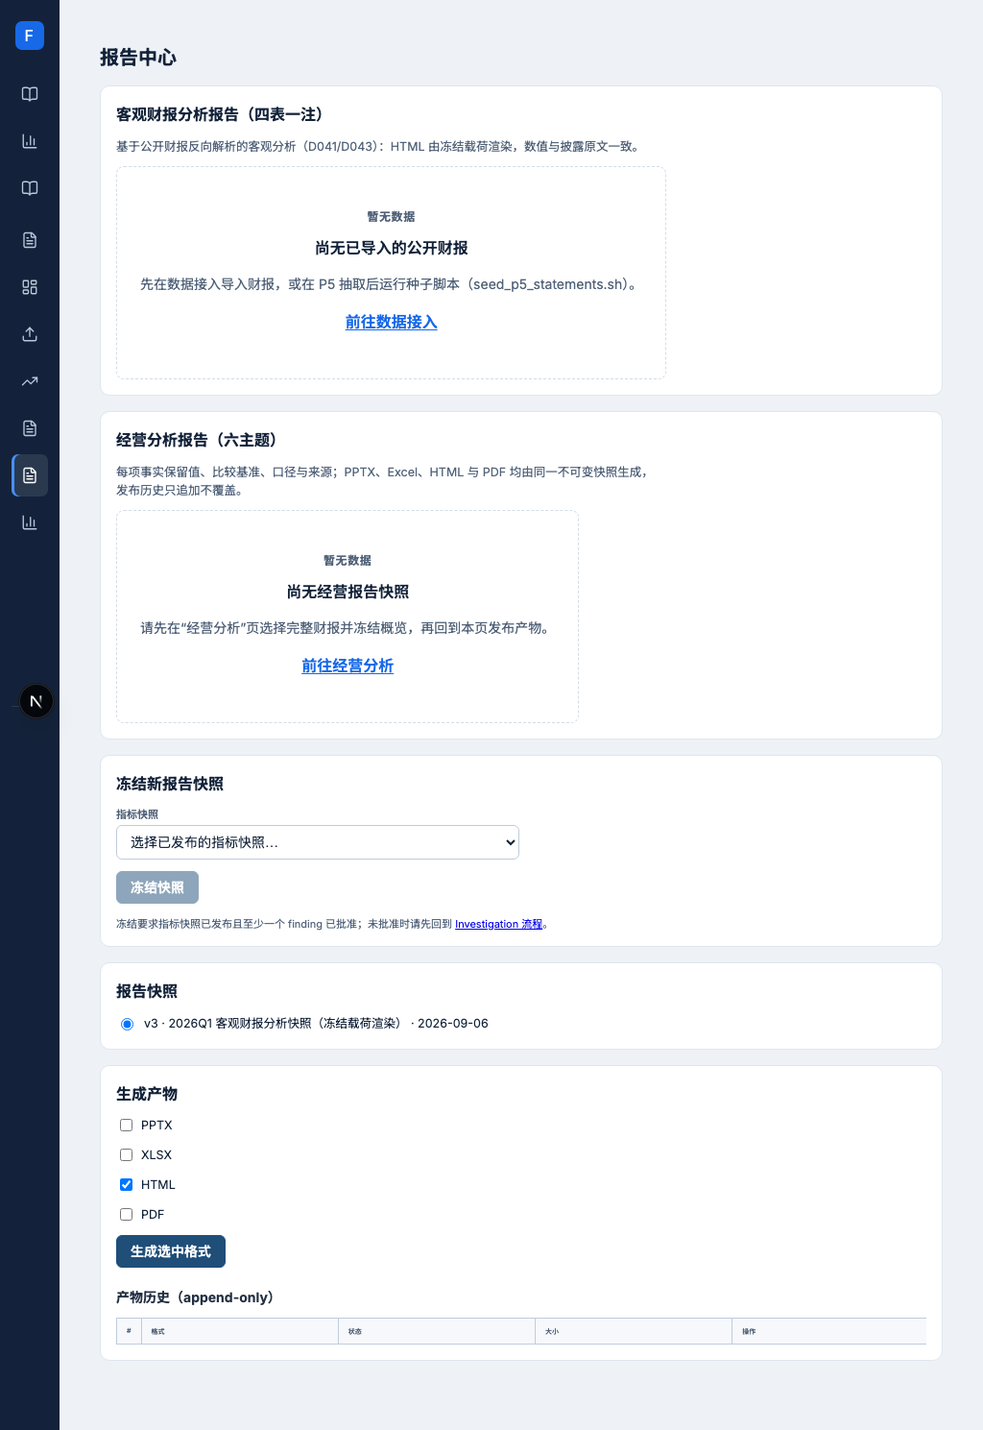
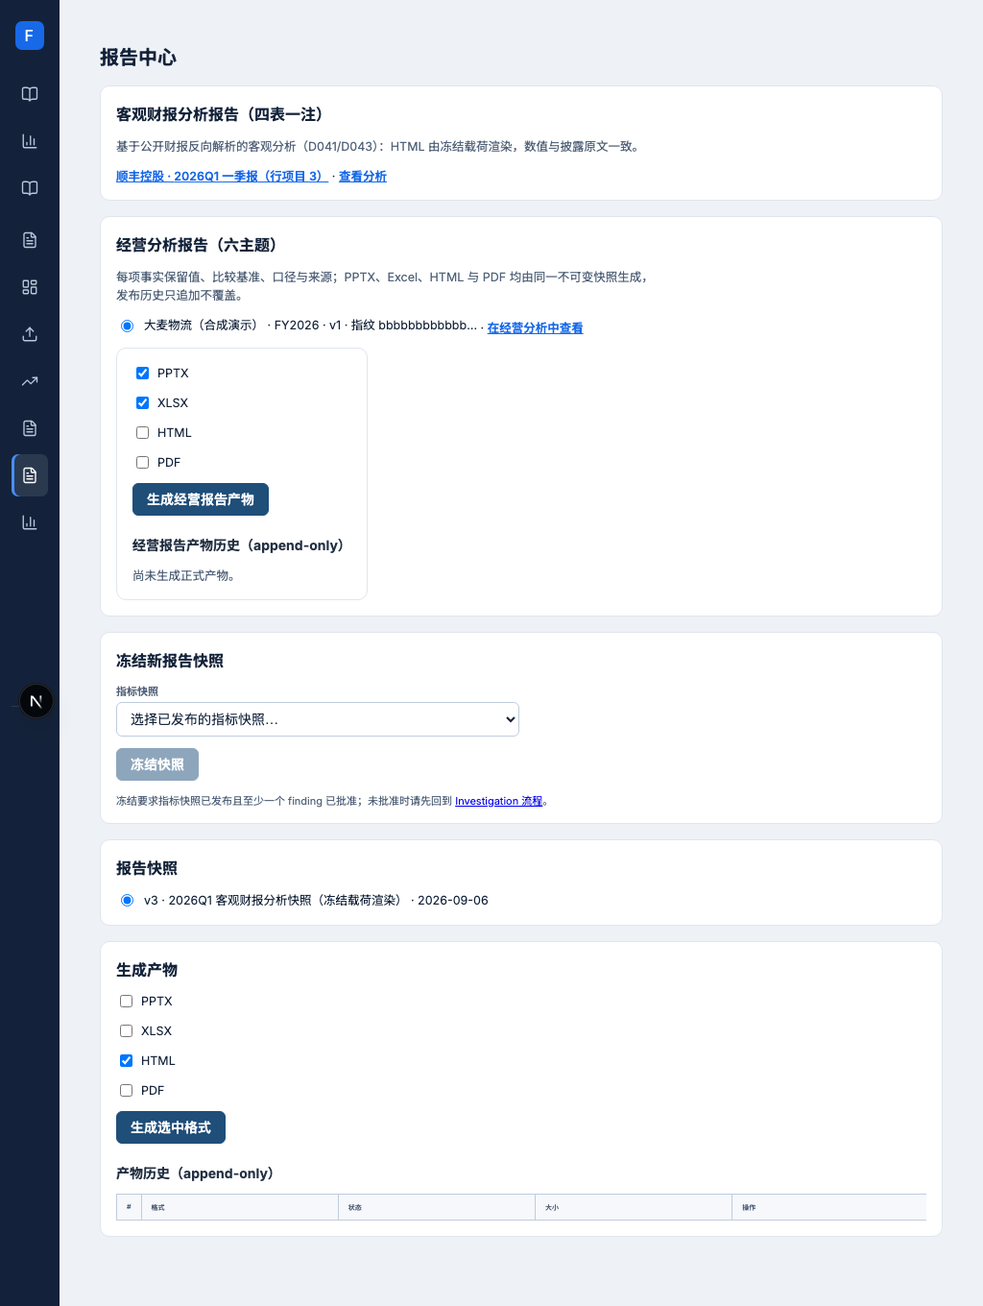
test(web): correct loaded state fixtures

diff --git a/apps/web/e2e/frontend-responsive.spec.ts b/apps/web/e2e/frontend-responsive.spec.ts
@@ -22,6 +22,8 @@ const ROUTES = [
   "/login",
 ] as const;
 
+const PAGE_ERRORS = new WeakMap<object, string[]>();
+
 // ---------------------------------------------------------------------------
 // 真实数据态的固定测试数据（路由拦截，形状对齐 typed schema 的 UI 读取面）
 // ---------------------------------------------------------------------------
@@ -57,50 +59,78 @@ const STATEMENTS_DETAIL = {
 };
 
 const METRIC_LIBRARY = {
-  dictionary_id: "flow.metrics.dictionary.v1.1",
-  status: "active",
+  dictionary_id: "flow.metric_dictionary.v1",
+  status: "effective",
   decision_ref: "D0xx",
+  created: "2026-09-27",
+  standards_scope: ["CAS", "IFRS"],
+  domains: { solvency: "偿债能力" },
   metrics: [
     {
-      code: "liquidity.current_ratio",
+      metric_code: "liquidity.current_ratio",
       name: "流动比率",
+      domain: "solvency",
+      tier: "core",
+      status: "effective",
       collection: "general",
       definition: "流动资产对流动负债的保障程度，衡量短期偿债能力。",
       formula_text: "流动资产 ÷ 流动负债（倍）",
-      time_behavior: "point_in_time",
+      formula: { op: "div", args: ["bs.current_assets", "bs.current_liabilities"] },
+      time_behavior: "point_balance",
+      unit: "倍",
       depends_on: ["cas.current_assets_total", "cas.current_liabilities_total"],
       provenance: "教科书标准口径",
-      mpm: null,
+      source_cas: ["流动资产合计", "流动负债合计"],
+      source_ifrs: "current assets / current liabilities",
+      mpm: false,
+      aliases: [],
+      alternative_calibers: [],
+      decompositions: [],
+      analysis_dimensions: [],
       entry_id: "e1",
-      migrates_from: null,
-      execution_kind: "deterministic",
-      execution_detail: null,
+      execution_kind: "facts",
     },
     {
-      code: "logistics.unit_cost",
-      name: "单票成本",
+      metric_code: "logistics.unit_cost",
+      name: "单票履约成本",
+      domain: "unit_economics",
+      tier: "professional",
+      status: "effective",
       collection: "logistics",
-      definition: "剔除存货后的更严格短期偿债口径的对照占位。",
-      formula_text: "（流动资产 − 存货）÷ 流动负债（倍）",
-      time_behavior: "point_in_time",
+      definition: "单位履约订单对应的平均履约成本。",
+      formula_text: "履约成本 ÷ 完成订单量",
+      formula: { op: "div", args: ["fulfillment_cost", "fulfilled_orders"] },
+      time_behavior: "period_flow",
+      unit: "元/单",
       depends_on: [],
-      provenance: null,
-      mpm: { benchmark: "trend" },
+      provenance: "大麦演示指标定义",
+      source_cas: [],
+      source_ifrs: null,
+      mpm: false,
+      aliases: [],
+      alternative_calibers: [],
+      decompositions: [],
+      analysis_dimensions: ["物流产品", "组织"],
       entry_id: "e2",
-      migrates_from: null,
-      execution_kind: "deterministic",
-      execution_detail: null,
+      execution_kind: "facts",
     },
   ],
   report_items: [
     { cas_item: "流动资产合计", ifrs_item: "Current assets", direction: "same" },
     { cas_item: "流动负债合计", ifrs_item: "Current liabilities", direction: "same" },
   ],
+  relations: [],
   accounting: {
+    dataset_id: "flow.accounting_foundation.v1",
+    status: "effective",
+    known_gaps: [],
+    categories: [],
     accounts: [
       { code: "1001", name: "库存现金" },
       { code: "1002", name: "银行存款" },
     ],
+    superseded_notes: [],
+    standards: [],
     entry_templates: [{ name: "收入确认模板", lines: 2 }],
   },
 };
@@ -142,6 +172,9 @@ const PUBLISHING_SNAPSHOTS = {
 /** 注入数据态；未列出的 API 保持透传（CI 无 API 时这些请求失败，
  *  但被测页面只依赖此处注入的端点）。 */
 async function mockRealisticData(page: import("@playwright/test").Page) {
+  const pageErrors: string[] = [];
+  page.on("pageerror", (error) => pageErrors.push(error.message));
+  PAGE_ERRORS.set(page, pageErrors);
   await page.route("**/api/v1/statements", (route) =>
     route.fulfill({ json: { reports: [STATEMENTS_SUMMARY] } }));
   await page.route(`**/api/v1/statements/${REPORT_ID}`, (route) =>
@@ -152,6 +185,10 @@ async function mockRealisticData(page: import("@playwright/test").Page) {
     route.fulfill({ json: FINDINGS }));
   await page.route("**/api/v1/publishing/snapshots", (route) =>
     route.fulfill({ json: PUBLISHING_SNAPSHOTS }));
+}
+
+async function expectNoPageErrors(page: import("@playwright/test").Page) {
+  expect(PAGE_ERRORS.get(page) ?? []).toEqual([]);
 }
 
 test.describe("responsive integrity", () => {
@@ -208,8 +245,9 @@ test.describe("responsive integrity", () => {
           await mockRealisticData(page);
           await page.goto(route, { waitUntil: "networkidle" });
           await waitForStyles(page);
-          await page.waitForTimeout(500);
-          await measureOverflow(page, `${route}@${width}`);
+        await page.waitForTimeout(500);
+        await measureOverflow(page, `${route}@${width}`);
+          await expectNoPageErrors(page);
         });
       }
     });
@@ -226,6 +264,7 @@ test.describe("responsive integrity", () => {
         await waitForStyles(page);
         await page.waitForTimeout(500);
         await measureOverflow(page, `${route} (data)`);
+        await expectNoPageErrors(page);
       });
     }
   });

diff --git a/apps/web/e2e/state-matrix-archive.spec.ts b/apps/web/e2e/state-matrix-archive.spec.ts
@@ -120,9 +120,63 @@ const PUBLISHING_SNAPSHOTS = {
   ],
 };
 
+const FREEZE_CANDIDATES = {
+  candidates: [
+    {
+      metric_snapshot_id: "ms-1",
+      batch_id: "damai-demo-v1",
+      period_label: "2026-08",
+      version: 3,
+      approved_findings: 1,
+      created_at: "2026-09-06T08:00:00+00:00",
+    },
+  ],
+};
+
+const OPERATIONS_SNAPSHOTS = {
+  snapshots: [
+    {
+      id: "os-1",
+      statement_report_id: REPORT_ID,
+      version: 1,
+      company_name: "大麦物流（合成演示）",
+      stock_code: "DAMAI.SYN",
+      period_label: "FY2026",
+      payload_hash: "b".repeat(64),
+      created_at: "2026-09-06T08:00:00+00:00",
+    },
+  ],
+};
+
 const DATA_ROUTES = [
-  { slug: "statements", route: "/statements", loaded: { statements: { reports: [STATEMENTS_SUMMARY] }, detail: STATEMENTS_DETAIL }, empty: { statements: { reports: [] } } },
-  { slug: "reports", route: "/reports", loaded: { publishing: PUBLISHING_SNAPSHOTS }, empty: { publishing: { snapshots: [] } } },
+  {
+    slug: "statements",
+    route: "/statements",
+    loaded: {
+      statements: { reports: [STATEMENTS_SUMMARY] },
+      detail: STATEMENTS_DETAIL,
+      corrections: { corrections: [] },
+    },
+    empty: { statements: { reports: [] } },
+  },
+  {
+    slug: "reports",
+    route: "/reports",
+    loaded: {
+      statements: { reports: [STATEMENTS_SUMMARY] },
+      publishing: PUBLISHING_SNAPSHOTS,
+      candidates: FREEZE_CANDIDATES,
+      operations: OPERATIONS_SNAPSHOTS,
+      publishingAttempts: { attempts: [] },
+      operationsAttempts: { attempts: [] },
+    },
+    empty: {
+      statements: { reports: [] },
+      publishing: { snapshots: [] },
+      candidates: { candidates: [] },
+      operations: { snapshots: [] },
+    },
+  },
   { slug: "metric-library", route: "/metric-library", loaded: { library: METRIC_LIBRARY }, empty: { library: { ...METRIC_LIBRARY, metrics: [] } } },
   { slug: "investigations", route: "/investigations", loaded: { investigations: FINDINGS }, empty: { investigations: { findings: [] } } },
 ] as const;
@@ -136,8 +190,33 @@ function applyFixtures(page: import("@playwright/test").Page, fixtures: Json) {
   if (fixtures.detail) {
     void page.route(`**/api/v1/statements/${REPORT_ID}`, (r) => r.fulfill({ json: fixtures.detail }));
   }
+  if (fixtures.corrections) {
+    void page.route(`**/api/v1/statements/${REPORT_ID}/corrections`, (r) =>
+      r.fulfill({ json: fixtures.corrections }),
+    );
+  }
   if (fixtures.publishing) {
     void page.route("**/api/v1/publishing/snapshots", (r) => r.fulfill({ json: fixtures.publishing }));
+  }
+  if (fixtures.candidates) {
+    void page.route("**/api/v1/publishing/freeze-candidates", (r) =>
+      r.fulfill({ json: fixtures.candidates }),
+    );
+  }
+  if (fixtures.operations) {
+    void page.route("**/api/v1/operations/snapshots", (r) =>
+      r.fulfill({ json: fixtures.operations }),
+    );
+  }
+  if (fixtures.publishingAttempts) {
+    void page.route("**/api/v1/publishing/snapshots/ps-1/attempts", (r) =>
+      r.fulfill({ json: fixtures.publishingAttempts }),
+    );
+  }
+  if (fixtures.operationsAttempts) {
+    void page.route("**/api/v1/operations/snapshots/os-1/attempts", (r) =>
+      r.fulfill({ json: fixtures.operationsAttempts }),
+    );
   }
   if (fixtures.library) {
     void page.route("**/api/v1/metric-library", (r) => r.fulfill({ json: fixtures.library }));
@@ -260,6 +339,7 @@ test.describe("state matrix archive", () => {
       "> 由 `apps/web/e2e/state-matrix-archive.spec.ts` 按需生成",
       "（`FLOW_STATE_MATRIX_ARCHIVE=1 pnpm exec playwright test e2e/state-matrix-archive.spec.ts`）。",
       "覆盖数据密集四页 × {正常 / 空 / 加载 / 错误 / 403} × {390 / 1024 / 1440}；",
+      "截图中的 loaded/empty 数据来自固定 UI 契约夹具，不是常驻库或大麦完整数据覆盖证明。",
       "结构合同由 `frontend-states.spec.ts` 与 `frontend-responsive.spec.ts` 门禁自动化，本目录为人审证据。",
       "",
       "| 页面 | 截图目录 |",

diff --git a/docs/50_plans/CURRENT_ROADMAP.md b/docs/50_plans/CURRENT_ROADMAP.md
@@ -3,7 +3,7 @@ doc_id: FLOW-PLAN-CURRENT
 title: 当前路线图（唯一）
 doc_type: plan
 status: active
-version: 5.15
+version: 5.16
 created_at: 2026-09-12
 updated_at: 2026-09-27
 owner: FLOW
@@ -17,7 +17,7 @@ superseded_by: null
 
 # 当前路线图（唯一主线）
 
-> 2026-09-27 主线状态：ORG-LEDGER 已在 `main@2c7d6eb4` 完成提交与推送，同 SHA GitHub CI run `36270782272` 全部 17 jobs success；本地隔离旅程与全量门禁均通过。UX 执行项已完成四个数据密集页面五态×三视口归档（61/61，含无 pageerror 断言），但 API→事实对账、其余路由状态/视口和下钻尚未完结。唯一执行队列仍为已完成1项、执行中1项（UX全站验收）、排队8项、外部材料受限1项。常驻 `flow` 测试批次偏差未经用户授权不得处置。
+> 2026-09-27 主线状态：ORG-LEDGER 已在 `main@2c7d6eb4` 完成提交与推送，同 SHA GitHub CI run `36270782272` 全部 17 jobs success；本地隔离旅程与全量门禁均通过。UX 执行项已完成四个数据密集页面五态×三视口归档（61/61）与响应式实测（27/27；均检查数据态 pageerror），但 API→事实对账、其余路由状态/视口和下钻尚未完结。唯一执行队列仍为已完成1项、执行中1项（UX全站验收）、排队8项、外部材料受限1项。常驻 `flow` 测试批次偏差未经用户授权不得处置。
 
 > **本页是全仓唯一主线**：既维护状态真相，也维护执行队列。2026-09-25 用户裁决（2A）后不再存在第二份「唯一」文档：EXECUTION_TODO、整合总计划、统一完整实施计划与执行收敛计划均已归档为历史/参考，状态与任务只以本页和工作包为准。详细验收步骤在各工作包与参考规格。
 
@@ -51,7 +51,7 @@ superseded_by: null
 截至 2026-09-27：**11 项，已完成 1 项，实际执行中 1 项，排队 8 项，外部材料受限 1 项**。第1项 ORG-LEDGER 已提交推送且同 SHA CI 全绿。当前唯一执行项为第2项 UX 全站验收；下一步先按工作包建立路由/API/页面状态/视口覆盖矩阵，只补测未覆盖的内容。全程禁止写入或清理常驻 `flow`。状态表、工作包和 HANDOFF 的操作卡不是第二条队列。
 
 1. **[完成] 企业组织建制与经营账套初始化包**（工作包见状态表2c）：提交 `2c7d6eb4`，CI run `36270782272` 的17/17 jobs success。31文件发行包稳定 manifest SHA `cbc7cccf…e513`；隔离 `full` 首次/重复、`business` 重置及回滚/租户隔离通过；全量 API852、Web142、脚本107、verify19/19、只读 GET43/43、Playwright9/9，合同/文档/lint/typecheck均通过。仅三表迁移在隔离栈验证，未触碰常驻库。
-2. **[进行中] UX 可见性与全站验收关闭**（工作包见状态表2b）：深链批次一至三已完成（批次三见 `cef0c362`）；2026-09-27 已刷新四个数据密集页五态×390/1024/1440 归档，Playwright 61/61 且无未捕获页面异常。接下来从已有43条只读 GET 覆盖表出发，完成剩余路由/API/页面数据一致性、未覆盖状态/视口、缺口与下钻验收，再运行 Gate 5 干净 SHA 全链和 CI；不可写入或清理常驻 `flow`，只补覆盖缺口，不重做深链批次。
+2. **[进行中] UX 可见性与全站验收关闭**（工作包见状态表2b）：深链批次一至三已完成（批次三见 `cef0c362`）；2026-09-27 已刷新四个数据密集页五态×390/1024/1440 归档，Playwright 61/61；响应式 E2E 27/27（11路由移动端、数据页多视口，含 pageerror 断言）。接下来从已有43条只读 GET 覆盖表出发，完成剩余路由/API/页面数据一致性、未覆盖状态/视口、缺口与下钻验收，再运行 Gate 5 干净 SHA 全链和 CI；不可写入或清理常驻 `flow`，只补覆盖缺口，不重做深链批次。
 3. **[排队] 公开财报 C 级归因、原件复核与抽取修订**（工作包见状态表3）：处理已确认42项异常后的109项口径疑点、JDL 200 格原件复核、抽取器修订；保留原始值及证据，任何结论可追溯。
 4. **[排队] U04 解析器适配与独立留出验证**（工作包见状态表1'）：这本身是可执行的工程任务，不再误标为阻塞。支持「合并及公司」标题与页码区间参数化；旧三样本回归；对已冻结的小米2026H1、阿里FY2027Q1独立首跑，首跑前不得调参。若遇到输入缺项，主动检查已冻结材料并完成可复现的替代核验记录。
 5. **[排队] C 级质量基准与 Go/No-Go**：依赖第3、4项；重跑 L1 并归档机器结果。`1794/1794` 仅表示登记覆盖，不代表准确性通过。

diff --git a/docs/00_start_here/PROJECT_STATE.md b/docs/00_start_here/PROJECT_STATE.md
@@ -3,7 +3,7 @@ doc_id: FLOW-STATE-001
 title: PROJECT_STATE
 doc_type: state
 status: current
-version: 5.12
+version: 5.13
 created_at: 2026-09-12
 updated_at: 2026-09-27
 owner: FLOW
@@ -12,7 +12,7 @@ applies_to: repository
 
 # FLOW 当前项目状态（唯一 current state）
 
-截至 2026-09-27：唯一队列共11项，已完成1项、实际执行中1项、排队8项、外部材料受限1项。ORG-LEDGER 已由 `2c7d6eb4` 推送到 `main`，同 SHA CI run `36270782272` 的17/17 jobs success；隔离初始化及全量验收通过，未触碰常驻数据库。当前唯一执行项为 UX 可见性与全站验收关闭；2026-09-27 已完成四个数据密集页五态×三视口截图复验（Playwright 61/61、无 pageerror），全路由 API/事实对账、状态视口、下钻及 Gate 5 仍待完成。完整11项顺序、逐步操作/验收/故障处理和唯一下一步见[当前路线图](../50_plans/CURRENT_ROADMAP.md#唯一完整-to-do-与执行队列严格串行)与[夜间接手手册](../../HANDOFF.md#04-夜间接手执行手册2026-09-27-当前权威)；此处不复制第二份待办。
+截至 2026-09-27：唯一队列共11项，已完成1项、实际执行中1项、排队8项、外部材料受限1项。ORG-LEDGER 已由 `2c7d6eb4` 推送到 `main`，同 SHA CI run `36270782272` 的17/17 jobs success；隔离初始化及全量验收通过，未触碰常驻数据库。当前唯一执行项为 UX 可见性与全站验收关闭；2026-09-27 已完成四个数据密集页五态×三视口归档（61/61）和响应式 E2E（27/27、无 pageerror），全路由 API/事实对账、未覆盖状态/视口、下钻及 Gate 5 仍待完成。完整11项顺序、逐步操作/验收/故障处理和唯一下一步见[当前路线图](../50_plans/CURRENT_ROADMAP.md#唯一完整-to-do-与执行队列严格串行)与[夜间接手手册](../../HANDOFF.md#04-夜间接手执行手册2026-09-27-当前权威)；此处不复制第二份待办。
 
 2026-09-26 更新：大麦常驻库曾在备份后幂等恢复并通过 verify 19/19 两次；随后根 checkout 的旧 `make test-dashboard` 误向常驻 `flow` 附加测试批次 `01a0dcdd-8245-7c17-99aa-fce91a8a7a57`（1 import、12 snapshots、1 run、50,400 metric values），可能成为 API `latest`。只读检查确认未删除/覆盖原大麦批次；未获授权，不回滚、不删除。此前备份 `work/backups/flow-pre-demo-rehydrate-20260926.dump`（SHA-256 `b374a16e…9782d`）早于该新增批次，不能作为当前恢复点。`649a2aba` 已推送并通过 CI run `36232029817`：维度表只展示当前快照事实并显示覆盖分母，完整筛选目录保留；Web 136/136、typecheck、隔离 verify19/19、E2E9/9通过。状态/证据文档提交 `7229cd0d` 与 `4c55f10e` 的 CI 也通过。常驻库页面状态需获批处置后重新只读核验；其他全站矩阵仍未完成。
 2026-09-26 补充：API 路由审查发现客观报表快照与经营报告渲染的若干 GET 可能新增冻结快照；这些路由已明确排除在只读探测之外，纳入单独 API 语义评审，不以请求验证其状态。其余 Gate 1 只读矩阵与页面状态验收继续推进。

diff --git a/docs/50_plans/work_items/UX--post-damai-experience-closeout.md b/docs/50_plans/work_items/UX--post-damai-experience-closeout.md
@@ -3,7 +3,7 @@ doc_id: FLOW-WI-UX-POST-DAMAI-001
 title: 大麦数据后的剩余体验收口
 doc_type: work-item
 status: active
-version: 4.7
+version: 4.8
 created_at: 2026-09-24
 updated_at: 2026-09-27
 owner: FLOW
@@ -37,7 +37,9 @@ applies_to: web-frontend
 
 - 共享 Next 开发进程的 `/statements` 请求挂起并出现 `EPIPE`，不属于本轮创建；未终止或改动该进程。改用 `work/damai-demo/web-matrix.E6MJjO/` 下的隔离前端副本及独立端口 54683 完成截图验收，复验后仅停止本轮创建的服务。
 - 四个数据密集页面 `/statements`、`/reports`、`/metric-library`、`/investigations` 的五态（loaded/empty/loading/error/forbidden）×三视口（390/1024/1440）共 60 张图已刷新；归档生成器第61项写索引。Playwright 两轮均 61/61；第二轮额外断言每个状态下无未捕获页面异常。
-- 首轮运行在旧指标库 fixture 中暴露 `MetricCard` 收到过时字段（`code` 而非 `metric_code`、缺 `domain` 等）导致浏览器运行时 TypeError。已将归档夹具修至当前 `flow.metric_dictionary.v1` UI 契约，并加入 pageerror 断言；第二轮归档无 pageerror。这个问题是测试夹具陈旧，并不表示生产 API 的指标数据缺陷。
+- 首轮运行在旧指标库 fixture 中暴露 `MetricCard` 收到过时字段（`code` 而非 `metric_code`、缺 `domain` 等）导致浏览器运行时 TypeError。已将归档夹具修至当前 `flow.metric_dictionary.v1` UI 契约，并加入 pageerror 断言；归档复验无 pageerror。这个问题是测试夹具陈旧，并不表示生产 API 的指标数据缺陷。
+- 代表性截图人审又发现报告中心 loaded fixture 未覆盖冻结候选、经营快照及对应尝试列表；首版因此把空占位错误地混入 loaded 图。已补齐这些端点的静态响应、将测试用的正式产物历史明确保持空列表，并重新生成归档；截图索引同步注明 loaded/empty 使用契约夹具，不能作为常驻库/大麦完整覆盖证明。
+- 响应式 E2E 的 `frontend-responsive.spec.ts` 另有一份相同的旧指标字段 fixture；现已按当前 `MetricEntry` 契约修正，并对四个 fixture 数据页检查 `pageerror`。独立隔离 Next 副本 Playwright 27/27（11路由390px无横向溢出；四个数据页1024/1440及数据态通过，无未捕获页面异常）。
 - 当前矩阵仍有明确范围差距：归档截图只覆盖四个数据密集页；其余七个交互路由仅有既有移动端溢出测试/局部状态合同，尚无五态×三视口全量视觉证据。截图中的单个财报/单指标 mock 是稳定的展示夹具，不是大麦数据库实况，也不能据此断言实际大麦数据的页面完整性。
 - 此复验只补充视觉归档与测试真实性，不覆盖 Gate 1 的逐项 API→发布对象→源事实映射，也未覆盖所有目标指标/趋势/矩阵下钻；工作包仍保持 active。
 

diff --git a/HANDOFF.md b/HANDOFF.md
@@ -20,7 +20,7 @@ applies_to: repository
 
 ### 接手基线、当前状态与操作纪律
 
-- 本轮从 GitHub `main` 快进同步到 `0aa2e880` 开始，在 `/Users/qiming/workspace/FLOW/.worktrees/execution-convergence` 的唯一 `main` 工作树串行执行。ORG-LEDGER 提交 `2c7d6eb4e9dead835a005687cdff8ac5ab19631f` 已推送，FLOW CI run `36270782272` 17/17 success。UX 已刷新四个数据密集页五态×三视口归档（60张截图；Playwright 两轮61/61，第二轮含无未捕获 pageerror 断言）。全站 API→事实对账、剩余路由/状态/视口/下钻与 Gate 5 仍未完成，队列计数不变。历史 `c08a2f6a` / `fc6e63a7` 仅作旧快照解释。未触碰根工作树的既有脏 `AGENTS.md` 和 `apps/web/next-env.d.ts`。
+- 本轮从 GitHub `main` 快进同步到 `0aa2e880` 开始，在 `/Users/qiming/workspace/FLOW/.worktrees/execution-convergence` 的唯一 `main` 工作树串行执行。ORG-LEDGER 提交 `2c7d6eb4e9dead835a005687cdff8ac5ab19631f` 已推送，FLOW CI run `36270782272` 17/17 success。UX 已刷新四个数据密集页五态×三视口归档（60张截图；加载归档61/61，响应式 E2E27/27；均覆盖 pageerror 检查）。报告中心 loaded fixture 现补齐列表端点但保留真实的“无正式产物”空历史；所有归档 loaded/empty 图均为固定 UI 夹具，不是大麦真实全量覆盖证据。全站 API→事实对账、剩余路由/状态/视口/下钻与 Gate 5 仍未完成，队列计数不变。历史 `c08a2f6a` / `fc6e63a7` 仅作旧快照解释。未触碰根工作树的既有脏 `AGENTS.md` 和 `apps/web/next-env.d.ts`。
 - **当前路线图计数（唯一队列11项）**：已完成 1（ORG-LEDGER）、实际执行中 1（UX 全站验收）、排队 8、外部材料受限 1。第1项因提交 SHA 同 CI 全绿而关闭，第2项已成为唯一执行项；不并行开启其他工作包。
 - 只在 `main` 上做，禁止新建并行任务分支；不得同时开始下一项。用户已授权常规项目实施与验证，不再为日常测试、分析、文档或常规实现请求再次批准。既有全局安全红线仍有效：真实数据迁移/schema、删除/覆盖/恢复常驻库、密钥/CI 配置、公开部署等按 `AGENTS.md` 处理；尤其常驻 `flow` 中的测试批次偏差 `01a0dcdd-8245-7c17-99aa-fce91a8a7a57` 不得自行删除、回滚或切 latest。
 - **状态口径**：`进行中`=此刻确实有命令、审查或实现正在执行；`队首待启动`=当前第一项但未开工；`排队`=严格等待前项完成；`外部材料受限`=先按本手册执行主动恢复和替代方案，不是停工态。工作包 frontmatter 的 `active/blocked` 表示工作包生命周期或验收门槛，不覆盖路线图执行状态。

diff --git a/docs/assets/screenshots/state-matrix/README.md b/docs/assets/screenshots/state-matrix/README.md
@@ -15,6 +15,7 @@ applies_to: docs
 > 由 `apps/web/e2e/state-matrix-archive.spec.ts` 按需生成
 （`FLOW_STATE_MATRIX_ARCHIVE=1 pnpm exec playwright test e2e/state-matrix-archive.spec.ts`）。
 覆盖数据密集四页 × {正常 / 空 / 加载 / 错误 / 403} × {390 / 1024 / 1440}；
+截图中的 loaded/empty 数据来自固定 UI 契约夹具，不是常驻库或大麦完整数据覆盖证明。
 结构合同由 `frontend-states.spec.ts` 与 `frontend-responsive.spec.ts` 门禁自动化，本目录为人审证据。
 
 | 页面 | 截图目录 |
@@ -24,5 +25,5 @@ applies_to: docs
 | `/metric-library` | [metric-library/](metric-library/) |
 | `/investigations` | [investigations/](investigations/) |
 
-生成时间：2026-09-26T21:52:04.107Z
+生成时间：2026-09-26T22:21:15.687Z
 
